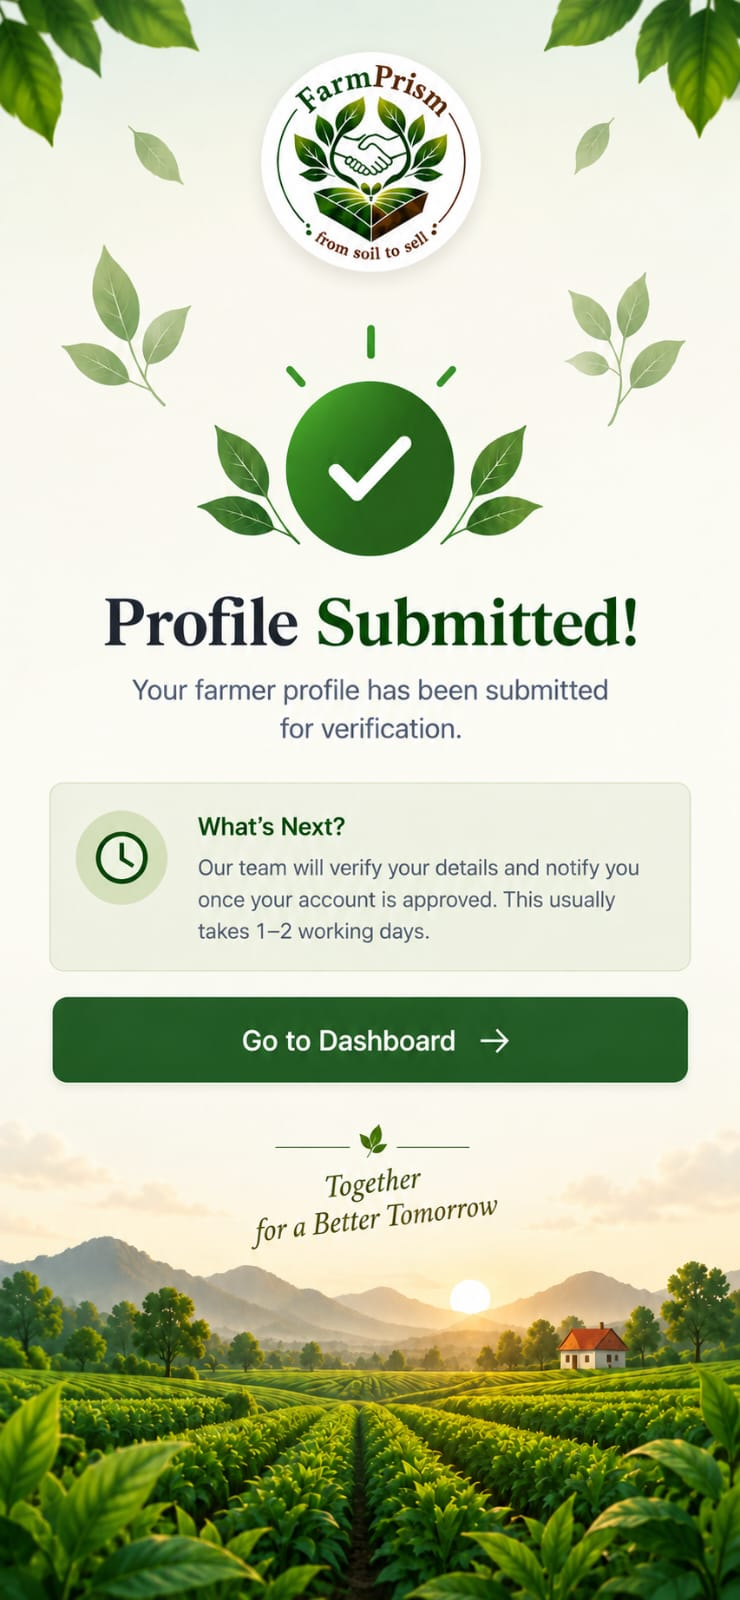
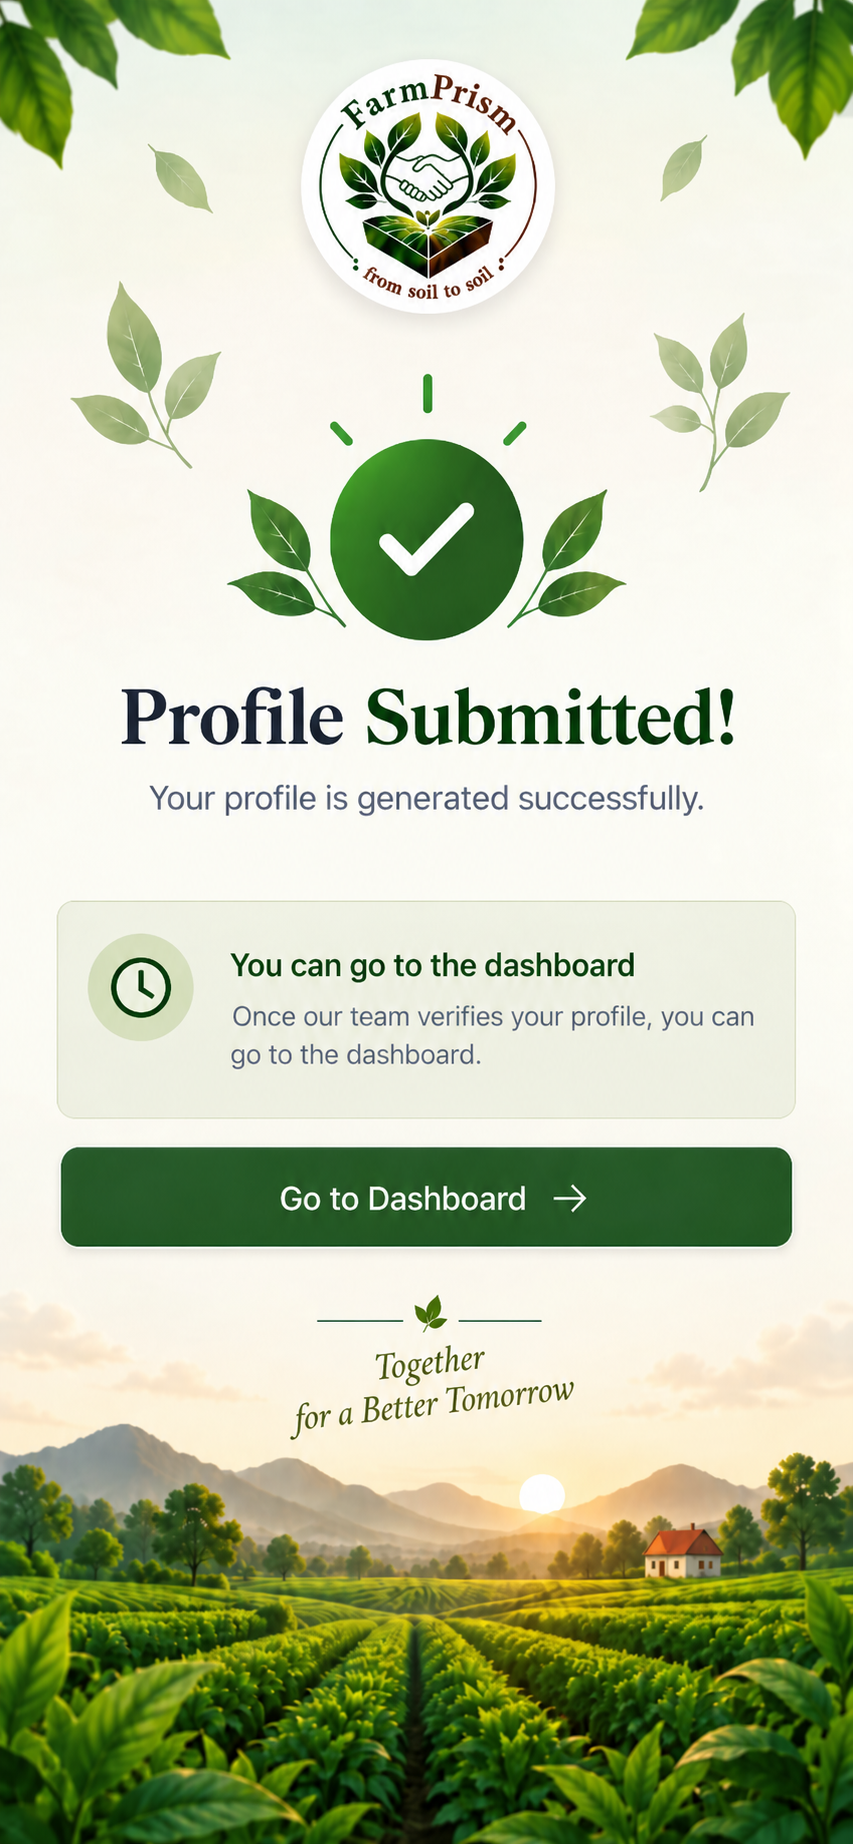
Signup assets uploaded

diff --git a/src/screens/FarmerScreens.tsx b/src/screens/FarmerScreens.tsx
@@ -60,8 +60,14 @@ export function FarmerPersonalScreen({ navigation }: NativeStackScreenProps<Farm
 
   return (
     <Canvas>
-      <Pressable accessibilityRole="button" accessibilityLabel="Choose a different role" style={styles.back} onPress={clearSelectedRole} />
-      <Pressable style={styles.help} onPress={() => Alert.alert('Help', 'Enter your personal details exactly as shown on your official farmer record.')} />
+      <Pressable
+        accessibilityRole="button"
+        accessibilityLabel="Choose a different role"
+        style={styles.back}
+        onPress={clearSelectedRole}
+      >
+        <Text style={styles.backText}>← Change Role</Text>
+      </Pressable>     <Pressable style={styles.help} onPress={() => Alert.alert('Help', 'Enter your personal details exactly as shown on your official farmer record.')} />
       <TextInput value={draft.fullName} onChangeText={v => update({ fullName: v })} placeholder="" style={[styles.pInput, styles.name]} />
       <TextInput value={draft.farmerId} onChangeText={v => update({ farmerId: v.replace(/\D/g, '').slice(0, 11) })} keyboardType="number-pad" placeholder="" style={[styles.pInput, styles.farmerId]} />
       <TextInput value={draft.mobileNumber || user?.phone?.replace('+91', '') || ''} onChangeText={v => update({ mobileNumber: v.replace(/\D/g, '').slice(0, 10) })} keyboardType="phone-pad" placeholder="" style={[styles.pInput, styles.mobile]} />
@@ -138,8 +144,27 @@ export function ProfileSubmittedScreen({ navigation }: NativeStackScreenProps<Fa
 
 const styles = StyleSheet.create({
   canvas: { flex: 1, backgroundColor: '#fff' },
-  back: { position: 'absolute', left: '5%', top: '3%', width: '9%', height: '5%' },
-  help: { position: 'absolute', right: '5%', top: '3%', width: '13%', height: '5%' },
+back: {
+  position: 'absolute',
+  left: '5%',
+  top: '3%',
+  minWidth: 120,
+  height: 42,
+  paddingHorizontal: 12,
+  borderRadius: 12,
+  backgroundColor: 'rgba(255,255,255,0.94)',
+  borderWidth: 1,
+  borderColor: '#1B6B35',
+  alignItems: 'center',
+  justifyContent: 'center',
+  zIndex: 20,
+},
+
+backText: {
+  color: '#1B6B35',
+  fontSize: 14,
+  fontWeight: '700',
+},  help: { position: 'absolute', right: '5%', top: '3%', width: '13%', height: '5%' },
   pInput: { position: 'absolute', left: '8%', width: '48%', height: '4.2%', backgroundColor: 'transparent', color: '#24352B', fontSize: 14 },
   name: { top: '25.0%' },
   farmerId: { top: '30.2%' },

diff --git a/src/screens/RoleSelectionScreen.tsx b/src/screens/RoleSelectionScreen.tsx
@@ -15,6 +15,7 @@ import { StatusBar } from 'expo-status-bar';
 import { useSafeAreaInsets } from 'react-native-safe-area-context';
 import type { NativeStackScreenProps } from '@react-navigation/native-stack';
 
+import { useAuth } from '../hooks/useAuth';
 import { useRole } from '../hooks/useRole';
 import type { OnboardingStackParamList } from '../navigation/OnboardingNavigator';
 import type { ApplicationRole } from '../types/role';
@@ -83,6 +84,8 @@ const roleCards: RoleCardDefinition[] = [
 export function RoleSelectionScreen({ navigation }: Props) {
   const { width } = useWindowDimensions();
   const insets = useSafeAreaInsets();
+  const { logout } = useAuth();
+
   const {
     availableRoles,
     error: roleError,
@@ -504,9 +507,17 @@ export function RoleSelectionScreen({ navigation }: Props) {
             accessibilityRole="button"
             accessibilityLabel="Back"
             onPress={() => {
-              if (navigation.canGoBack()) {
-                navigation.goBack();
-              }
+              Alert.alert(
+                'Back to Login?',
+                'You will be signed out and returned to the login flow.',
+                [
+                  { text: 'Cancel', style: 'cancel' },
+                  {
+                    text: 'Go Back',
+                    onPress: () => void logout(),
+                  },
+                ],
+              );
             }}
             style={({ pressed }) => [
               styles.backButton,
